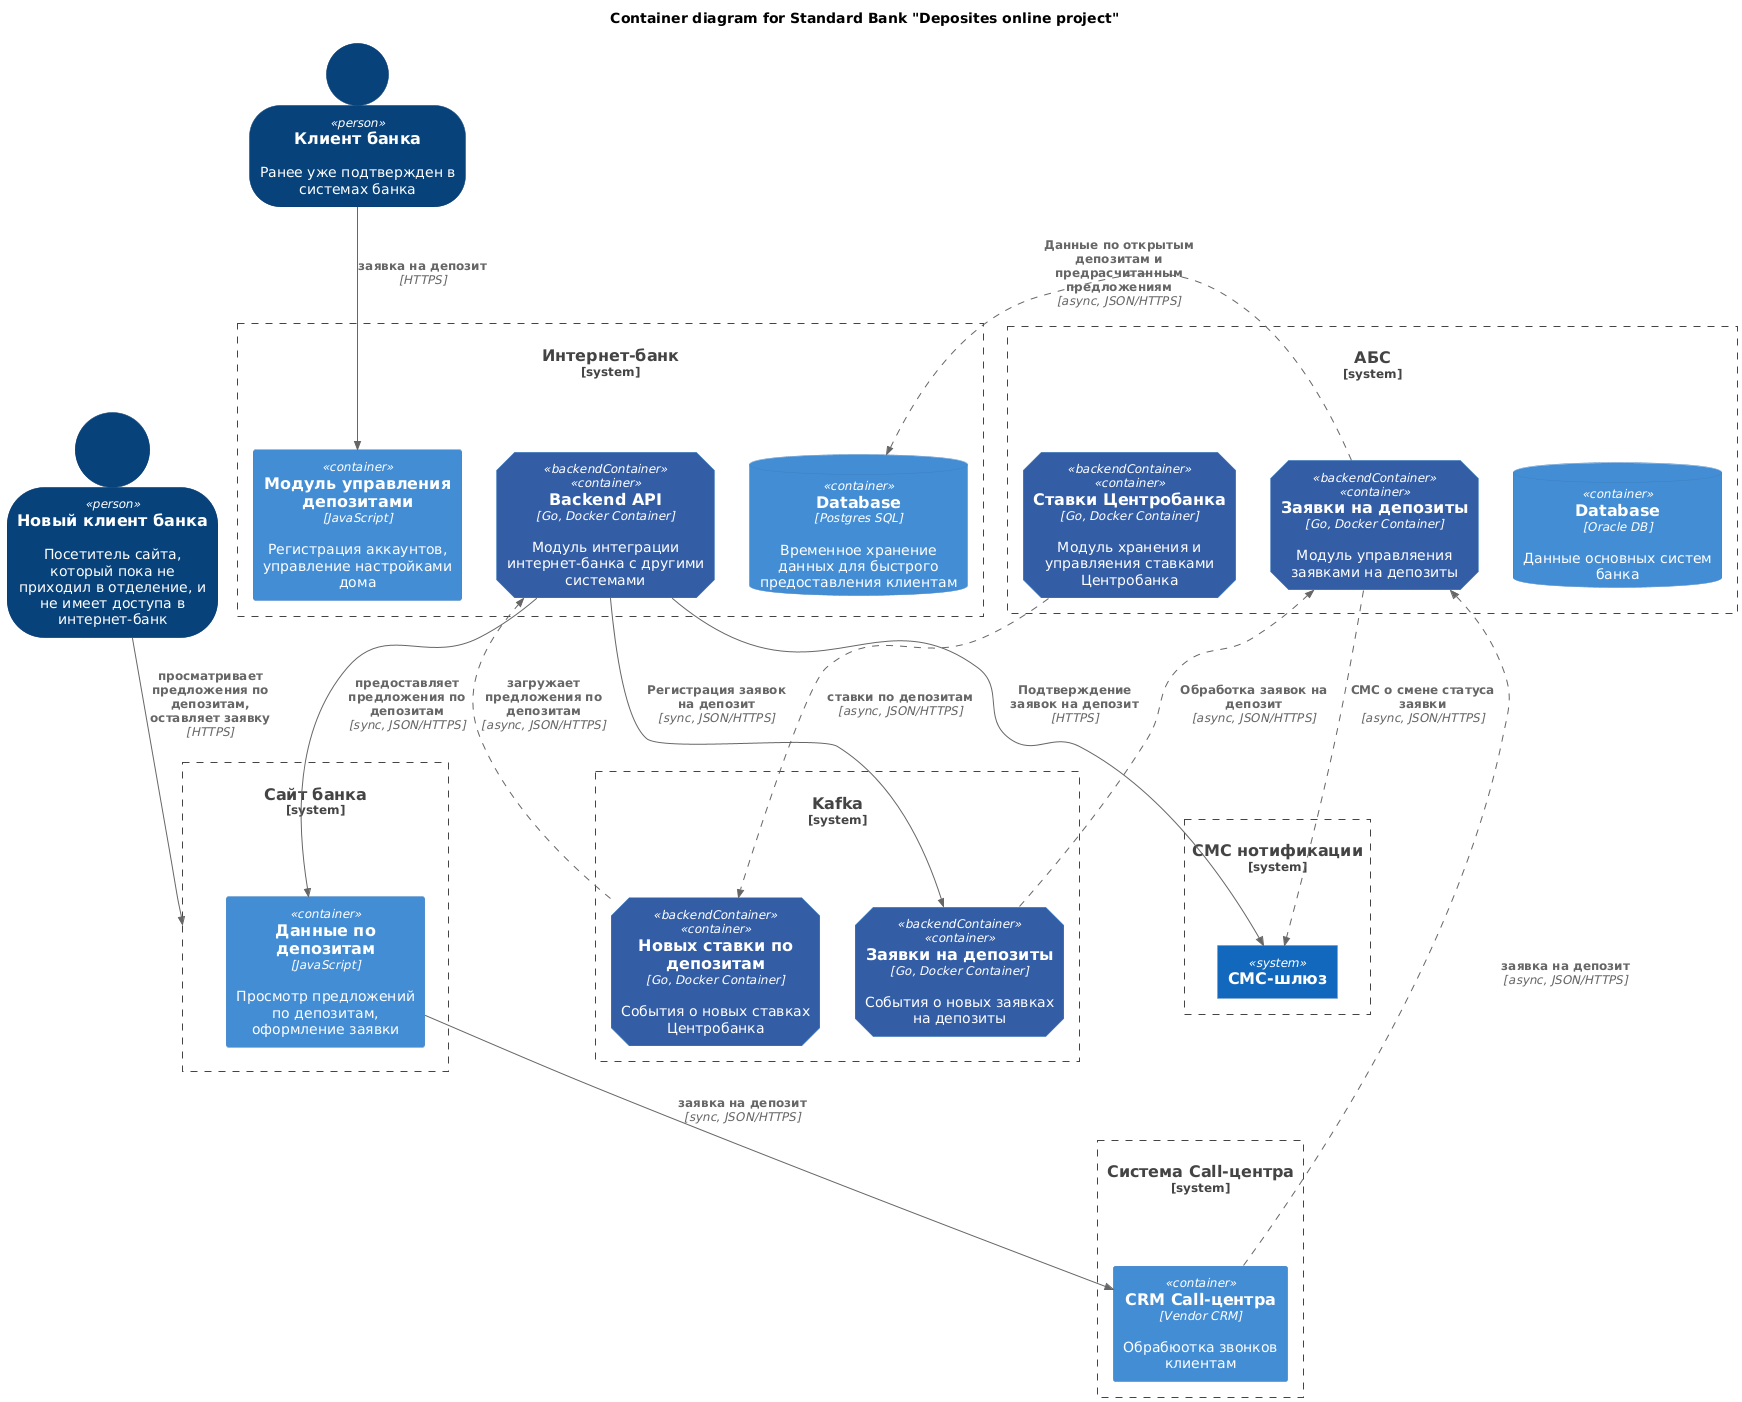
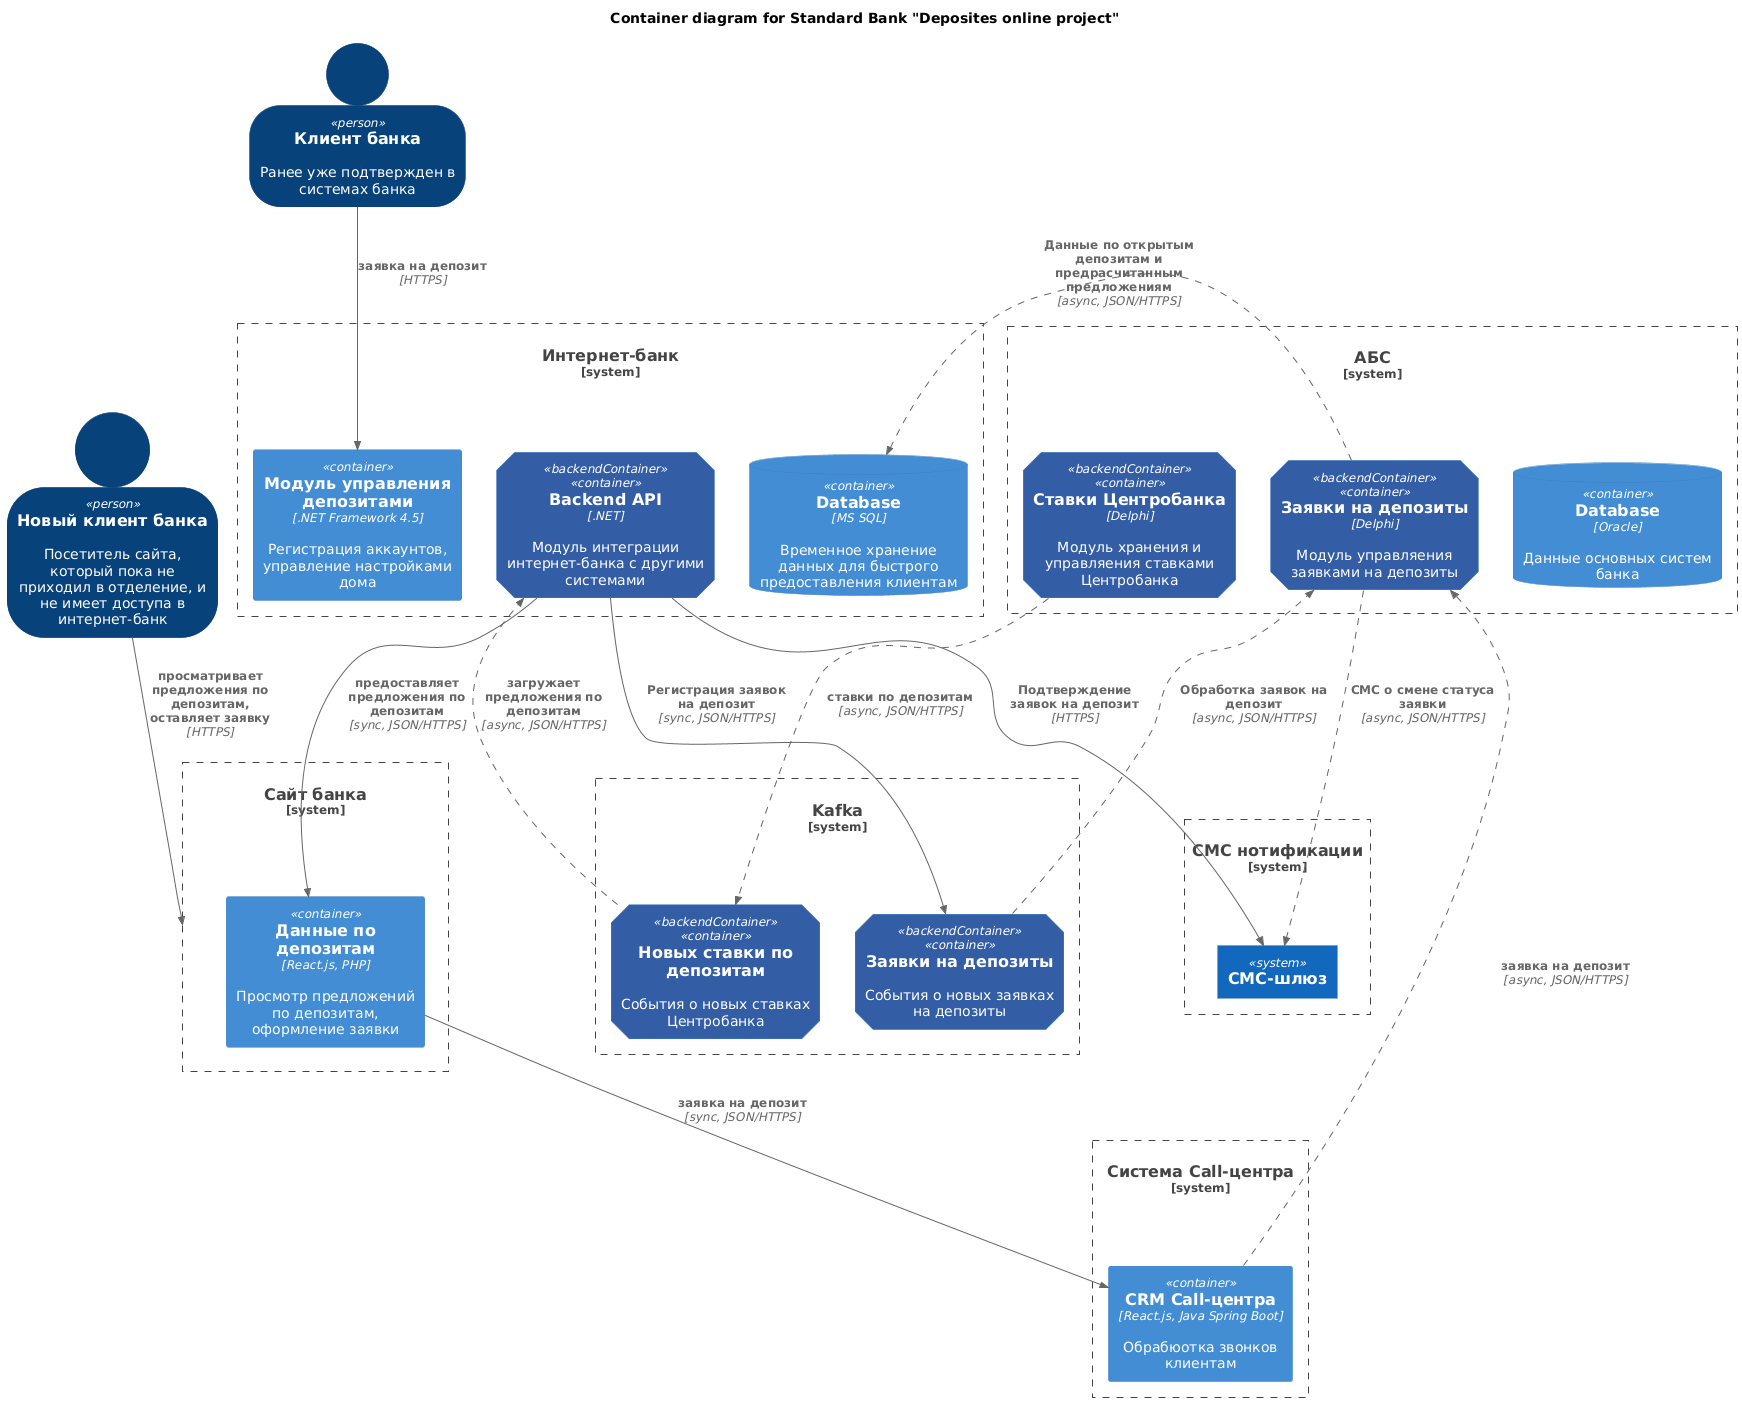
Task3 completed

diff --git a/Task3/ADR_deposits_online.md b/Task3/ADR_deposits_online.md
@@ -26,10 +26,9 @@
 | P1  | Отклик по всем операциям должен быть максимально быстрым и занимать миллисекунды. Сейчас справочные данные загружаются дольше секунды | Стоит добавить новую БД для интернет банка (и сайта)  |
 | P2  | В случае сбоев в ЦОД необходимо, чтобы сервисы интернет-банка были доступны и выдерживали требуемую нагрузку. Нужно поддержать резервирование через второй ЦОД   |              |
 | S1  | Cтавки по депозитам сейчас не ведутся нигде, кроме XLS-файлов. Добавить интеграцию с АБС |  |
-| S2  | Можно попробовать микросервисную архитектуру для депозитов  |              |
+| S2  | Можно попробовать микросервисную архитектуру для интернет-банка депозитов  |              |
 | S3  | Для очереди сообщений стоит использовать Kafka   |              |
 | S4  | Стоит использовать базы данных MS SQL и Oracle - Уже используются в банке  |   |
-| +R1  | Функционал работы с СМС реализован в ядре системы. Он требует доработки со стороны подрядчика, но этого лучше избежать. Реализовать такой бизнес-функционал можно силами команды разработки банка  |              |
 | +R2  | Текущая версия интернет банка несовместима с Kafka - Требуется обновление    |   |
 
 ### **Решение**
@@ -40,13 +39,24 @@
 [C4 Containers diagram](/Task3/C4_Container.puml)
 ![C4 Containers diagram](/Task3/C4Container_ToBe.png)
 
-Также опишите, какой логикой вы руководствовались в ходе принятия решений и выбора технологий. Не забывайте, что необходимо учесть все функциональные и нефункциональные требования.
-
+Комментарии к диаграмме:
+1. Для реализации интеграции Интернет-банка c Kafka потребуется обновление платформы
+2. В АБС добавлен модуль "Ставки". Планируется что данные в него будут заливать сотрудники бекофиса. Событие о появлении новых ставок публикуется в Kafka, чтобы их мог забрать Интернет-банк
+3. Заявки из интернет-банка не будут напрямую добавляться в АБС. Вместо этого в АБС они попадут асинхронно, при обработке событий в Kafka 
+4. Для сайта будет использоваться тот же самый Backend, что и для интернет-банка - это позволит упростить архитектуру клиентских приложений и сократить количество шифрованных каналов интеграции. 
+5. Интеграцию сайта с смс-шлюзом тоже можно сделать через Backend интернет-банка. Прямая стрелка отображена для понимания интеграций
+6. Так как в базе данных нет критичиски важных данных - только предрасчитанные и справочные, актуальную информацию в БД можно подливать по событиям из Kafka - при необходимости сразу в обе базы - в основной ЦОД, и в резервнй.
+7. Backend интернет-банка можно реализовать (на .NET последней LTS версии - у команды есть экспертиза по данной технологии, и интеграция с Frontend'ом будет только через REST API.
 
 ### **Альтернативы**
-Опишите здесь наиболее важные альтернативные решения.
+1. Вариант прямой интеграции интернет-банка с АБС отклонен, из-за риска превысить допустимую нагрузку на БД АБС
+2. Вариант прямой интеграции сайта с АБС отклонен, из-за риска превысить допустимую нагрузку на БД АБС
+3. Расмотрен вариант оставить процесс работы со ставками через Excel, без изменений. Отклонен - т.к. придется загружать ставки в несколько систем
 
 **Недостатки, ограничения, риски**
 
-Подробно опишите здесь недостатки, ограничения и риски выбранного решения.
+1. Появляется новая система - Kafka. Будут издержки по ее поддержке.
+2. Не раскрыт вопрос интеграции Kafka и АБС, возможно на текущем стеке (Delphi) интеграция будет затруднена.
+3. Не раскрыт вопрос реализации новых СМС-нотификаций в СМС-шлюзе. Есть риск что внутренняя команда не сможет реализовать данную доработку.
+4. Не раскрыт вопрос автоматического переключения интернет-банка с основного ЦОД на резервный и обратно
 

diff --git a/Task2/FURPS_tobe.md b/Task2/FURPS_tobe.md
@@ -31,7 +31,7 @@
 |  P5 | Нужна периодическая синхронизация между BPM и АБС  |  Стоит реализовать публикацию событий из АБС в Kafka. Это позволит быстрее принимать решения по кредитным заявкам в BPM  |
 | S   | **Поддерживаемость (Supportability)**  |              |
 | S1  | Cтавки по депозитам сейчас не ведутся нигде, кроме XLS-файлов. Добавить интеграцию с АБС |  |
-| S2  | Можно попробовать микросервисную архитектуру для депозитов  |              |
+| S2  | Можно попробовать микросервисную архитектуру для интернет-банка депозитов  |              |
 | S3  | Для очереди сообщений стоит использовать Kafka   |              |
 | S4  | Стоит использовать базы данных MS SQL и Oracle - Уже используются в банке  |   |
 | +R  | **+ Ограничения (Restrictions)**      |              |
